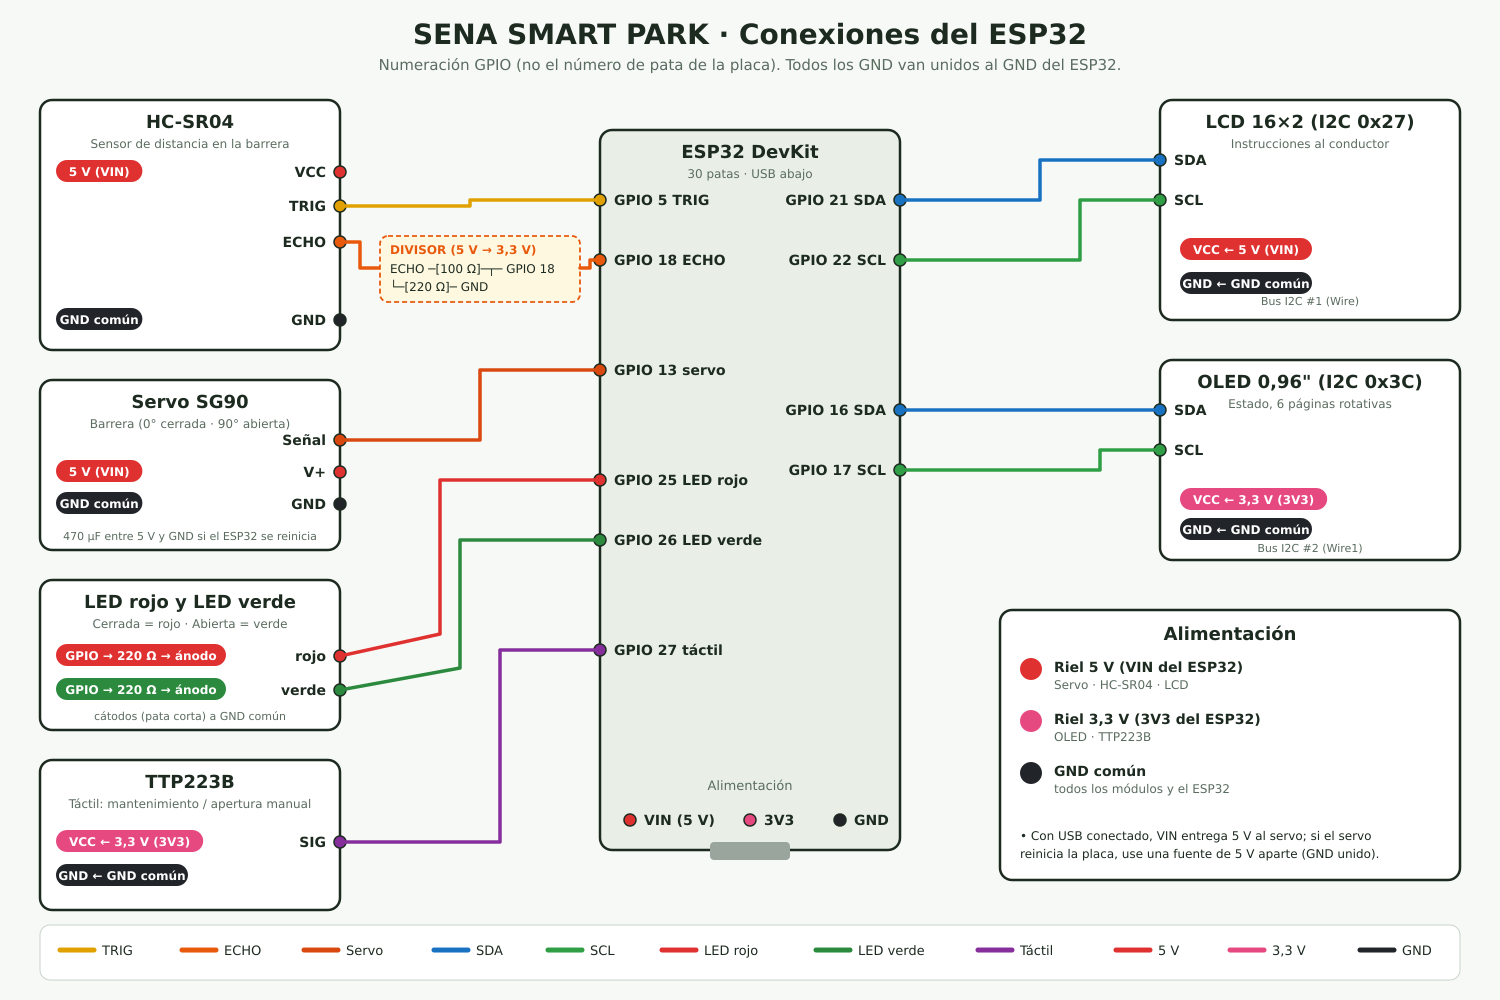
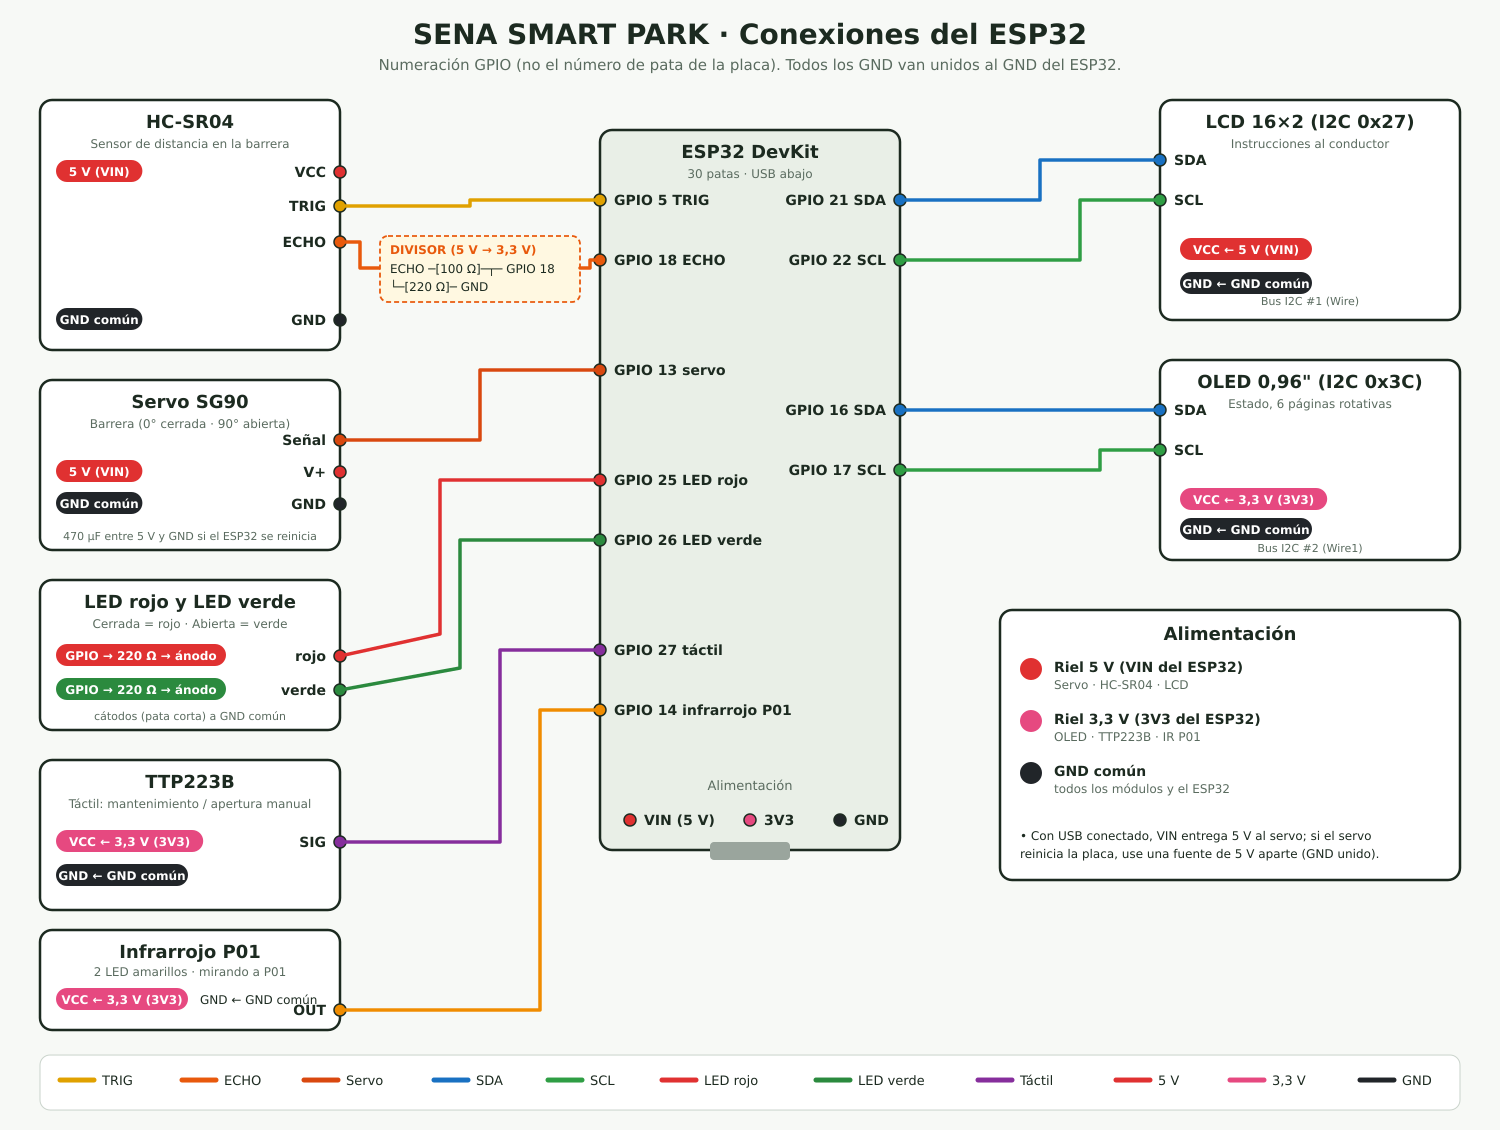
docs: infrarrojo de P01 en el diagrama de conexiones y en el spec

diff --git a/docs/superpowers/specs/2026-11-10-sena-smart-park-design.md b/docs/superpowers/specs/2026-11-10-sena-smart-park-design.md
@@ -118,9 +118,9 @@ Igual que la entrada, con estas diferencias:
 
 ## 7. Hardware y pines (revisión 2026-11-11, definida por el usuario)
 
-Se retiran LM393, TCRT5000, HC-SR501, DHT11 y FC-28. El HC-SR04 pasa de vigilar P01 a vigilar la aproximación a la barrera. No lleva relé.
+Se retiran LM393, HC-SR501, DHT11 y FC-28. El HC-SR04 pasa de vigilar P01 a vigilar la aproximación a la barrera. No lleva relé. El módulo infrarrojo digital (el de los dos LED amarillos) vuelve, ahora como verificador de P01: confirma que el vehículo autorizado sí llegó al puesto.
 
-Alimentación: ESP32 por USB. Riel de 5 V tomado de VIN: servo, HC-SR04 y LCD. Riel de 3,3 V: OLED y TTP223B. Los GND de todo van unidos. ECHO del HC-SR04 entrega 5 V y pasa por divisor de resistencias (100 Ω arriba y 220 Ω a GND, ≈3,4 V) antes del ESP32. Si el servo reinicia el ESP32 al moverse, se agrega un condensador (470 µF) en el riel de 5 V o una fuente aparte.
+Alimentación: ESP32 por USB. Riel de 5 V tomado de VIN: servo, HC-SR04 y LCD. Riel de 3,3 V: OLED, TTP223B e infrarrojo de P01. Los GND de todo van unidos. ECHO del HC-SR04 entrega 5 V y pasa por divisor de resistencias (100 Ω arriba y 220 Ω a GND, ≈3,4 V) antes del ESP32. Si el servo reinicia el ESP32 al moverse, se agrega un condensador (470 µF) en el riel de 5 V o una fuente aparte.
 
 | Función | Componente | GPIO |
 |---|---|---|
@@ -130,6 +130,7 @@ Alimentación: ESP32 por USB. Riel de 5 V tomado de VIN: servo, HC-SR04 y LCD. R
 | Barrera | Servo SG90 | 13 |
 | LED rojo / verde | indicadores | 25 / 26 |
 | Mantenimiento / apertura manual | TTP223B | 27 |
+| Verificación de P01 (¿llegó el vehículo?) | Infrarrojo digital, salida OUT (LOW = obstáculo) | 14 |
 
 Sensado sin LM393 ni TCRT5000: el HC-SR04 es el único sensor de vehículo. «Vehículo presente» = distancia menor al umbral durante varias lecturas seguidas. «Pasó» = estuvo presente, la barrera abrió y dejó de estar presente. P01 ya no tiene sensor: el backend lo marca ocupado al finalizar una entrada y libre al finalizar una salida. Prioridad: HC-SR04 y servo son críticos; el resto no bloquea el flujo.
 
@@ -143,6 +144,7 @@ ESP32 → backend:
 
 - `senapark/estado`: `online`/`offline`, con Last Will y retenido.
 - `senapark/sensores/entrada`: `{presente: bool, distancia_cm}` en cada cambio de presencia, cuando la distancia varía 3 cm (máx. cada 0,5 s) y cada 5 s como latido.
+- `senapark/sensores/p01`: `{ocupado: bool}` del infrarrojo de P01, en cada cambio (4 lecturas seguidas a 50 ms) y cada 5 s como latido.
 - `senapark/sensores/paso`: `{evento: "cruce"}`, deducido por el firmware con el HC-SR04.
 - `senapark/telemetria`: `{rssi, uptime_s, ip, heap, angulo}` cada 5 s.
 - `senapark/barrera/estado`: `{estado: "abierta"|"cerrada", cmd_id}`.
@@ -210,3 +212,9 @@ Si el tiempo aprieta, se recorta en este orden: OLED, estadísticas y gráficas.
 - **Estado inicial de P01:** si al arrancar P01 aparece ocupado sin un acceso `DENTRO`, se registra el evento `P01_OCUPADO_SIN_ACCESO` y se bloquean las entradas hasta que se resuelva.
 - **Reinicio de la demo:** el kiosco tiene un botón "Reiniciar demo" que cierra accesos activos y limpia autorizaciones pendientes, para ensayar varias veces sin tocar la base de datos.
 - **Modo simulado:** el kiosco tiene un modo oculto de pruebas que permite simular las lecturas del HC-SR04 (distancia y cruce) (publicando por MQTT como si fuera el ESP32). Sirve para desarrollar el backend y para ensayar la demo si un sensor falla.
+
+## 7 bis. Verificación de P01 con el infrarrojo
+
+Toda entrada va primero a P01 (el primer puesto libre). Tras registrarse la entrada, el backend espera `CONFIRMA_P01_MS` (15 s por defecto) y mira el infrarrojo: si ve el vehículo registra `ENTRADA_CONFIRMADA`; si no, la entrada **sigue registrada como DENTRO** pero se marca la alerta `ENTRADA_NO_CONFIRMADA` (el vehículo pudo irse a otro lado), visible en el historial, el panel de equipos y la escena. En la salida, si pasado ese tiempo el sensor sigue viendo un vehículo se marca `SALIDA_NO_CONFIRMADA`. Una lectura posterior que concuerde con lo registrado limpia la alerta. Los demás puestos (P02–P06) no tienen sensor y no se verifican. El módulo se alimenta a 3,3 V, OUT a GPIO 14 con pull-up interno.
+
+**P01 reservado para el hardware.** En modo prueba con el ESP32 real, el simulador de sensores marca sus lecturas de la barrera con `simulado: true`; una entrada así nunca recibe P01 (va al primer puesto libre siguiente). Así el primer carro de la presentación, el del hardware, ocupa P01.
